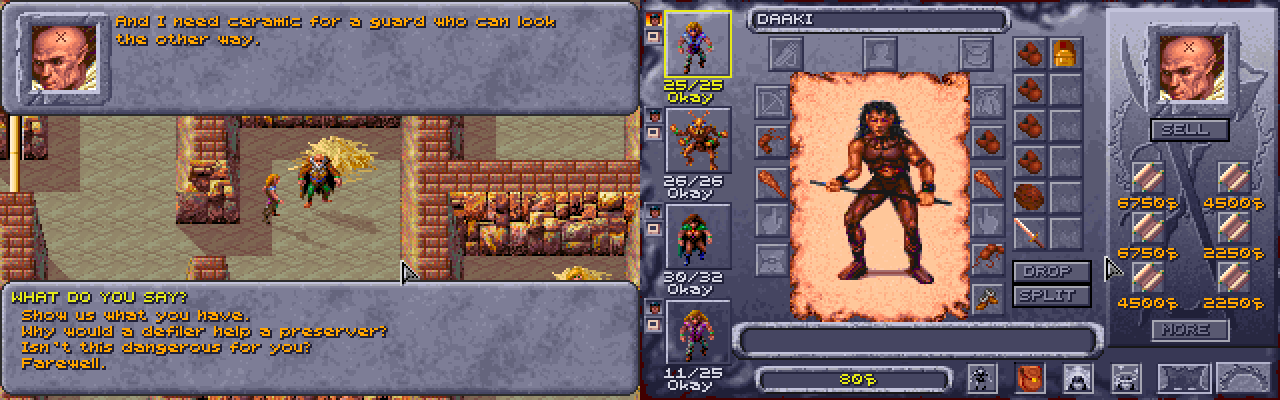
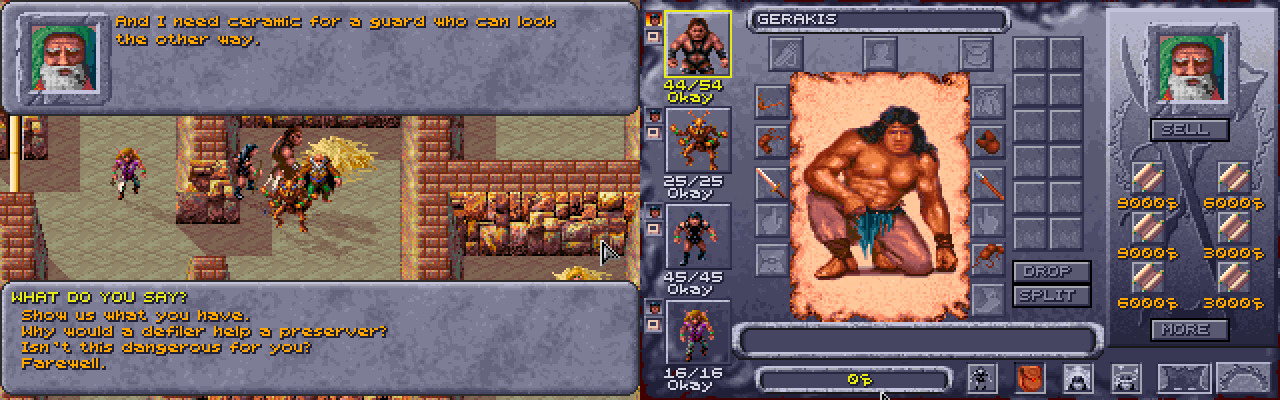
Kalzith's own portrait, painted in the game's style
Replaces the game's portrait 61 with a brand: an old man, white of brow
and beard, in the green-teal hood his map figure wears (the user's pick of
three artists' attempts). Seen in DOSBox in his talk and his shop; the
features page's screenshot retaken.

Claude-Session: https://claude.ai/code/session_01BNiWkhyZSJPYsN3zRrweVp

diff --git a/obsidian-edition/dsloader/kalzithface.py b/obsidian-edition/dsloader/kalzithface.py
@@ -1,0 +1,40 @@
+"""Kalzith's portrait (kalzith.PORTRAIT): his own face, painted for the mod in the game's portrait
+style and colours (2026-11-05, the user's choice of three artists' work, "A"): an old man, white
+of brow and beard, in a hood of the green-teal his map figure wears. 32 rows of 32 indexes of the
+portraits' palette (GPLDATA's PAL 1), only ones the game's own portraits use (none it animates or
+a region changes: 16-79, 128-223), for icons.encode."""
+
+FACE = (
+    (60, 60, 60, 60, 60, 60, 60, 54, 55, 55, 55, 55, 56, 55, 55, 55, 55, 55, 55, 54, 54, 54, 54, 54, 54, 54, 53, 54, 60, 60, 60, 60),
+    (60, 60, 60, 60, 54, 55, 55, 55, 53, 55, 56, 55, 55, 55, 55, 55, 56, 55, 55, 55, 55, 54, 54, 53, 54, 54, 54, 54, 53, 53, 60, 60),
+    (60, 60, 54, 55, 55, 55, 55, 56, 55, 55, 55, 55, 55, 55, 56, 55, 55, 55, 55, 55, 55, 54, 54, 53, 54, 54, 54, 53, 53, 53, 70, 60),
+    (60, 54, 55, 55, 55, 56, 55, 55, 55, 55, 19, 19, 19, 19, 19, 19, 19, 19, 19, 19, 19, 19, 54, 54, 53, 54, 54, 54, 53, 70, 70, 70),
+    (55, 55, 55, 55, 56, 55, 55, 55, 19, 19, 203, 203, 203, 128, 128, 128, 128, 128, 129, 129, 203, 203, 19, 19, 54, 53, 54, 54, 53, 70, 70, 70),
+    (55, 55, 55, 56, 55, 55, 55, 19, 203, 134, 134, 134, 134, 134, 134, 131, 134, 133, 133, 129, 134, 203, 129, 203, 18, 53, 54, 54, 53, 70, 70, 70),
+    (55, 55, 56, 55, 55, 55, 19, 128, 128, 133, 132, 144, 144, 146, 146, 146, 147, 130, 130, 130, 131, 131, 131, 203, 203, 18, 54, 54, 53, 70, 70, 70),
+    (55, 56, 55, 55, 55, 53, 128, 134, 131, 144, 147, 146, 150, 146, 149, 147, 148, 146, 146, 145, 145, 145, 144, 134, 128, 129, 18, 54, 53, 70, 70, 70),
+    (55, 56, 55, 55, 55, 53, 128, 132, 131, 146, 130, 144, 132, 130, 130, 130, 144, 131, 131, 130, 131, 144, 132, 132, 132, 128, 18, 54, 70, 53, 70, 70),
+    (56, 55, 53, 55, 56, 55, 134, 131, 145, 146, 150, 150, 150, 146, 146, 146, 149, 149, 149, 144, 145, 144, 132, 132, 133, 128, 18, 54, 70, 53, 70, 69),
+    (56, 55, 55, 56, 55, 53, 131, 132, 147, 147, 148, 148, 147, 131, 146, 150, 144, 149, 149, 149, 146, 146, 144, 132, 132, 132, 18, 70, 70, 53, 70, 69),
+    (55, 55, 55, 55, 54, 53, 131, 212, 214, 214, 146, 216, 215, 214, 146, 149, 131, 212, 216, 144, 214, 212, 212, 212, 132, 128, 18, 70, 53, 70, 70, 69),
+    (55, 56, 55, 54, 54, 53, 131, 209, 212, 215, 215, 212, 134, 134, 132, 148, 131, 203, 128, 214, 212, 212, 209, 134, 134, 134, 18, 70, 70, 53, 69, 69),
+    (55, 56, 55, 54, 54, 53, 131, 133, 129, 203, 196, 203, 129, 134, 145, 151, 130, 128, 203, 203, 203, 203, 203, 134, 134, 134, 18, 70, 53, 70, 70, 69),
+    (56, 55, 55, 55, 54, 53, 131, 131, 133, 203, 203, 128, 128, 128, 151, 151, 131, 128, 203, 203, 134, 134, 134, 132, 134, 134, 18, 53, 53, 70, 70, 69),
+    (56, 55, 54, 55, 53, 53, 146, 146, 144, 132, 132, 144, 144, 146, 148, 148, 146, 132, 132, 131, 134, 134, 144, 131, 132, 134, 18, 70, 53, 70, 70, 69),
+    (55, 53, 55, 56, 55, 53, 147, 146, 150, 148, 147, 144, 144, 144, 148, 151, 147, 128, 131, 144, 130, 130, 131, 132, 133, 134, 18, 53, 70, 70, 70, 69),
+    (55, 54, 55, 56, 55, 53, 145, 146, 150, 151, 147, 146, 131, 145, 151, 151, 148, 131, 134, 130, 130, 144, 132, 133, 134, 209, 18, 53, 70, 70, 70, 69),
+    (54, 55, 56, 55, 54, 53, 214, 146, 149, 149, 144, 133, 131, 149, 151, 151, 151, 146, 128, 134, 130, 134, 128, 128, 209, 209, 18, 53, 70, 70, 70, 69),
+    (54, 55, 53, 55, 53, 214, 215, 214, 146, 131, 134, 129, 134, 129, 144, 145, 131, 203, 128, 134, 134, 134, 212, 212, 212, 209, 209, 18, 70, 70, 69, 69),
+    (54, 55, 56, 55, 212, 214, 215, 215, 216, 214, 215, 216, 216, 216, 216, 216, 215, 216, 215, 214, 214, 215, 212, 212, 212, 209, 209, 209, 18, 69, 69, 69),
+    (55, 54, 55, 53, 214, 215, 216, 216, 215, 215, 216, 216, 215, 214, 212, 212, 58, 58, 212, 214, 215, 212, 212, 212, 212, 210, 209, 209, 18, 70, 69, 69),
+    (55, 56, 55, 53, 215, 216, 215, 215, 215, 215, 214, 215, 212, 58, 129, 128, 128, 128, 128, 58, 212, 214, 216, 212, 212, 212, 209, 209, 18, 70, 69, 69),
+    (56, 55, 54, 53, 216, 216, 216, 216, 215, 215, 214, 215, 214, 212, 58, 130, 144, 144, 131, 58, 212, 214, 214, 214, 212, 212, 209, 209, 18, 69, 69, 69),
+    (56, 55, 54, 54, 212, 212, 215, 216, 215, 214, 216, 215, 215, 212, 209, 58, 58, 209, 212, 212, 212, 212, 209, 209, 212, 212, 210, 209, 18, 69, 69, 69),
+    (56, 53, 55, 53, 210, 214, 216, 216, 216, 215, 216, 216, 214, 215, 215, 214, 214, 215, 212, 212, 212, 210, 209, 209, 212, 212, 129, 58, 18, 69, 69, 69),
+    (55, 55, 56, 55, 75, 215, 216, 216, 216, 216, 216, 216, 215, 216, 216, 216, 215, 215, 214, 214, 214, 212, 210, 210, 212, 212, 212, 209, 75, 69, 69, 69),
+    (55, 56, 55, 76, 75, 212, 212, 216, 216, 215, 216, 216, 215, 214, 216, 216, 214, 215, 214, 212, 214, 214, 214, 209, 209, 129, 210, 75, 75, 69, 69, 69),
+    (56, 55, 54, 76, 75, 212, 212, 216, 216, 215, 216, 215, 214, 215, 216, 216, 216, 216, 214, 212, 214, 212, 212, 209, 209, 212, 129, 75, 76, 69, 69, 69),
+    (55, 54, 76, 77, 76, 75, 214, 216, 216, 215, 216, 216, 215, 216, 215, 214, 215, 216, 214, 215, 215, 212, 212, 212, 212, 209, 75, 75, 76, 75, 69, 69),
+    (54, 54, 182, 76, 76, 75, 214, 215, 215, 214, 215, 214, 214, 214, 214, 212, 214, 214, 214, 214, 212, 212, 212, 212, 212, 212, 75, 76, 75, 76, 69, 69),
+    (54, 77, 76, 182, 77, 76, 75, 216, 215, 214, 215, 215, 214, 214, 214, 212, 212, 215, 214, 214, 214, 212, 212, 212, 212, 75, 75, 76, 75, 76, 75, 69),
+)

diff --git a/obsidian-edition/dsloader/kalzith.py b/obsidian-edition/dsloader/kalzith.py
@@ -16,8 +16,8 @@ folder is never changed; DSCLOG has the game open the copies):
   * GPLDATA.GFF: his conversation, script SCRIPT, and in the pens' master script (MAS 41) the
     command that runs it when the party talks to him (6Eh, as for Dinos and the rest), with its
     entry in the game's table of entry points (GPLI, which saves go by); and his
-    portrait, PORTRAIT: the game's PORTRAIT_FROM with an X branded on the brow, so that no one
-    else's face is his (the Loader's dialogue tab shows it too).
+    portrait, PORTRAIT: his own face, painted for him (kalzithface.py; the Loader's dialogue
+    tab shows it too).
 
 The game reads the pens' people from RGN29 only the first time the party goes there (a save keeps
 them as they were), so he is in new games: those started after the Loader has these copies.
@@ -40,8 +40,7 @@ REGION, ETAB_ID, MASTER = 0x29, 41, 41  # the slave pens, its entity table and m
 SCRIPT = 218  # his conversation (the game's run to 217)
 BEGIN, START = 0x19, 1  # the byte every game script opens with, and where talking starts: after it
                          # (the game takes a talk command for offset 0 as none: clicking did nothing)
-PORTRAIT = 101  # his own: the game's portrait 61 with a slave's brand (101 is free in the game's)
-PORTRAIT_FROM = 61  # a gaunt, bald man (shown also for another of the game's people)
+PORTRAIT = 101  # his own face (kalzithface.py; 101 is free in the game's)
 PEN = (1580, 880)  # by the straw in a free pen of the middle column (its door on the left)
 ENTITY_FLAGS = 14  # as the pens' other people have
 OJFF_PICTURE = 0x0C  # an object's picture
@@ -136,33 +135,10 @@ def object_chunks(chunks) -> Dict[Tuple[str, int], bytes]:
 # ---------------------------------------------------------------------------------------------
 # His portrait
 
-BRAND = (  # an X burned into the brow: "#" the groove, "o" its raised rim (lit from the upper right)
-    "#...#",
-    "o#.#o",
-    ".o#o.",
-    ".#o#.",
-    "#o.o#",
-)
-BRAND_AT = (12, 3)  # its top left, on the left of the brow's highlight
-BRAND_GROOVE, BRAND_RIM = 133, 152  # (portrait palette: a dark red-brown, a pale skin highlight)
-
-
-def portrait(rows):
-    """Portrait PORTRAIT_FROM's pixels (rows of palette indexes) with the brand."""
-    out = [list(r) for r in rows]
-    x0, y0 = BRAND_AT
-    for dy, line in enumerate(BRAND):
-        for dx, c in enumerate(line):
-            if c != ".":
-                out[y0 + dy][x0 + dx] = BRAND_GROOVE if c == "#" else BRAND_RIM
-    return out
-
-
-def portrait_chunk(chunks) -> Optional[bytes]:
-    """His portrait as a PORT chunk, from the game's own (None without it)."""
-    from . import icons
-    source = chunks.get(("PORT", PORTRAIT_FROM))
-    return icons.encode(portrait(icons.decode(source))) if source else None
+def portrait_chunk(chunks=None) -> bytes:
+    """His portrait as a PORT chunk: his own face (kalzithface.py)."""
+    from . import icons, kalzithface
+    return icons.encode([list(row) for row in kalzithface.FACE])
 
 
 # ---------------------------------------------------------------------------------------------

diff --git a/obsidian-edition/tests/test_kalzith.py b/obsidian-edition/tests/test_kalzith.py
@@ -166,20 +166,14 @@ class KalzithTests(unittest.TestCase):
         self.assertEqual(kalzith.object_chunks({}), {})
 
     def test_portrait(self):
-        """His own face: the game's portrait 61, branded on the brow, at a number the game leaves
-        free; the rest of the picture the game's."""
-        from dsloader import icons
-        face = [[150] * 32 for _ in range(32)]
-        out = kalzith.portrait_chunk({("PORT", kalzith.PORTRAIT_FROM): icons.encode(face)})
-        rows = icons.decode(out)
-        changed = {(x, y) for y in range(32) for x in range(32) if rows[y][x] != 150}
-        x0, y0 = kalzith.BRAND_AT
-        self.assertEqual(changed, {(x0 + dx, y0 + dy) for dy, l in enumerate(kalzith.BRAND)
-                                   for dx, c in enumerate(l) if c != "."})
-        self.assertEqual(rows[y0][x0], kalzith.BRAND_GROOVE)
-        self.assertEqual(rows[y0 + 1][x0], kalzith.BRAND_RIM)
-        self.assertIsNone(kalzith.portrait_chunk({}))
-        self.assertNotEqual(kalzith.PORTRAIT, kalzith.PORTRAIT_FROM)
+        """His own face (kalzithface.py), 32 x 32, at a number the game leaves free, in colours the
+        game's portraits use without animating them or a region changing them."""
+        from dsloader import icons, kalzithface
+        rows = icons.decode(kalzith.portrait_chunk({}))
+        self.assertEqual(rows, [list(r) for r in kalzithface.FACE])
+        self.assertEqual((len(rows), {len(r) for r in rows}), (32, {32}))
+        self.assertTrue(all(16 <= v <= 79 or 128 <= v <= 223 for r in rows for v in r))
+        self.assertEqual(kalzith.PORTRAIT, 101)
 
     def test_scroll(self):
         """The game's own spell scroll, teaching the spell at the price (named one past the

diff --git a/playtest/PLAYTESTING.md b/playtest/PLAYTESTING.md
@@ -406,6 +406,13 @@ the step forward) ends in the arena's first fight (region 2Ah), party at about (
   for a look without a fight or a spell. Outside a fight the party is one figure, the leader's;
   walking, it spreads into four. Unicorn tests that look for "mov ax,25xxh / mov dx,handler" in
   the image must search from the end: the same bytes for vector 62h turn up earlier by chance.
+- **Kalzith** (2026-11-05): from `pens-after-scar`, walkto (1816,408), (1704,408), (1592,440), then
+  clicks at screen (200,178) (camera 1392,384) take the party through Kurzak's entryway past him
+  (route.py wouldn't: he stands in front of it); then `route.py 1560 880` reaches Kalzith's pen
+  (him at 1576,888, thing 220). The arrow's click on him does nothing (the party stands on him):
+  the look pointer (two right-clicks on bare floor) on him opens the Look box (KALZITH, LEVEL 5),
+  and its first button (163,150) talks. Replies are lines from y 162, 8 apart; "We mean no harm",
+  then click the box twice, then "Show us what you have" opens his shop.
 - **route.py won't walk through a figure** (2026-11-05): with someone standing at (99, 31), in
   front of Kurzak's entryway (99, 33-34, open), it found no way south from his stop and gave up;
   the live grid showed the doorway clear. Walk round with clicks, or wait for him to move.

diff --git a/obsidian-edition/FEATURES.md b/obsidian-edition/FEATURES.md
@@ -1906,10 +1906,12 @@ arena. A save made after that keeps the pens as they were.
 **Kalzith** is a defiler slave the templars put
 in the arena now and then (the crowd loves to watch a defiler burn), kept in a
 pen of his own in the middle column the rest of the time. He has the arena
-Defiler's figure and a face of his own: the game's portrait 61 with a slave's
-brand on the brow, so the Dialogue tab never mistakes him for anyone else.
+Defiler's figure and a face of his own, painted for him in the game's own
+portrait style: an old man, white of brow and beard, in the green-teal hood his
+figure wears. No one else has it, so the Dialogue tab never mistakes him for
+anyone else.
 
-![Kalzith: his talk, and his shop of six scrolls, 3,000 to 9,000 ceramic, here with the party leader's CHA discount](docs/kalzith.png)
+![Kalzith: his talk, and his shop of six scrolls, 3,000 to 9,000 ceramic](docs/kalzith.png)
 
 Talk to him as to anyone (click him with the look pointer, then the Look box's
 Talk button). His conversation is the game's kind, just him speaking:

diff --git a/CHANGELOG.md b/CHANGELOG.md
@@ -9,6 +9,10 @@ notes](PATCH-NOTES.md).
 ## Next pull request (not opened yet)
 
 **New**
+- **Kalzith's own portrait** (`kalzithface.py`): a face painted for him in the game's portrait
+  style and colours (an old man, white of brow and beard, in his figure's green-teal hood),
+  chosen by the user from three artists' attempts ("A", the frontal one), in place of the game's
+  portrait 61 with a brand. Seen in DOSBox in his talk and his shop; `docs/kalzith.png` retaken.
 - **See-through figures** (`ghost.py`; the Options tab's new "drawn see-through" switch, on): a
   thief or ranger hidden and unheard in a fight, and anyone invisible (a party member always, an
   enemy while no party member detects invisibility), drawn half see-through, the user's look E
